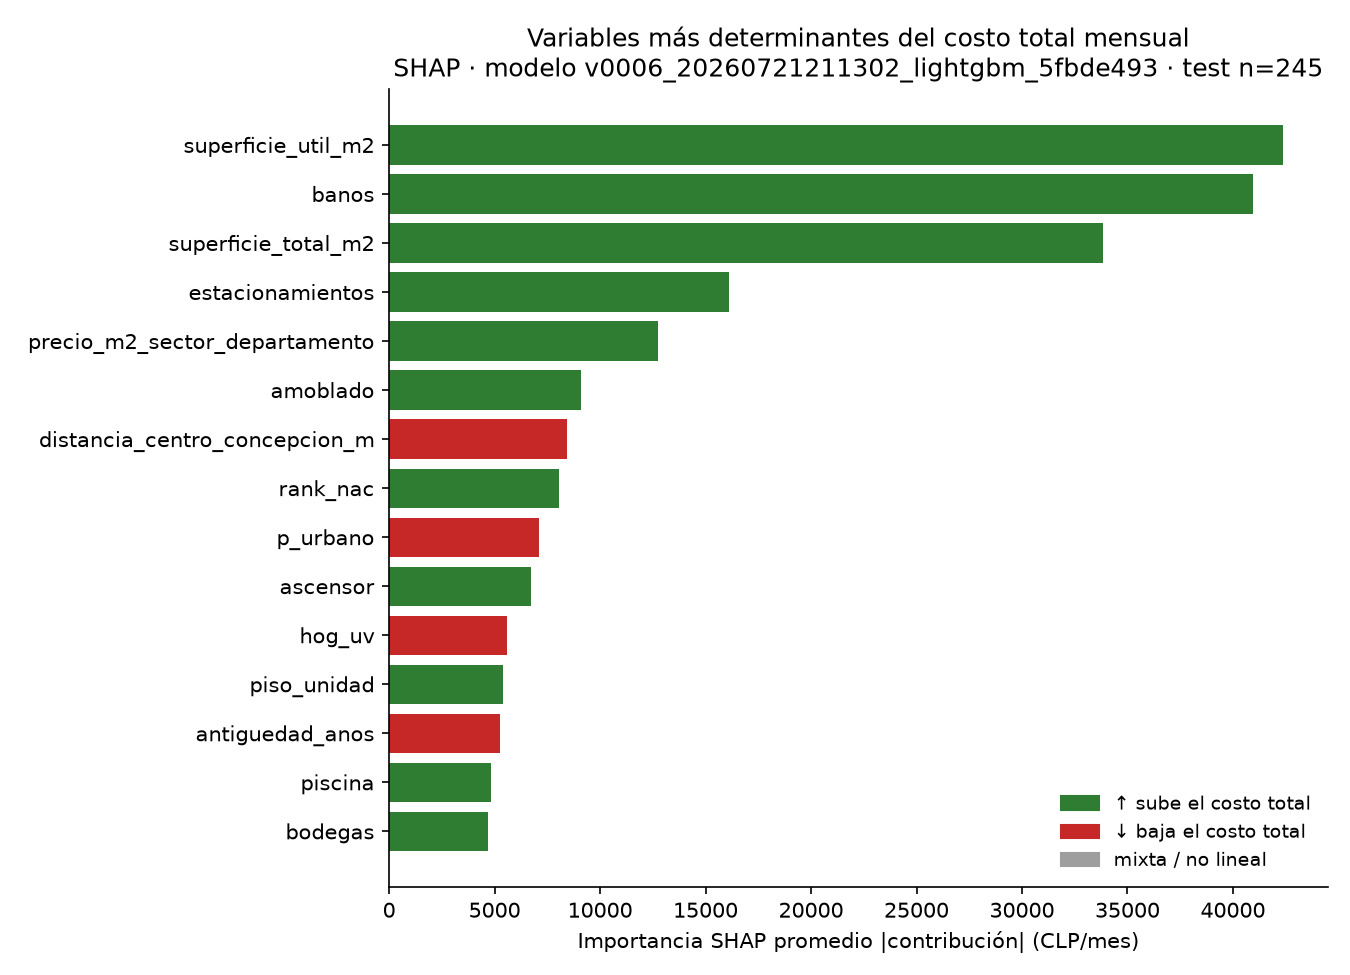
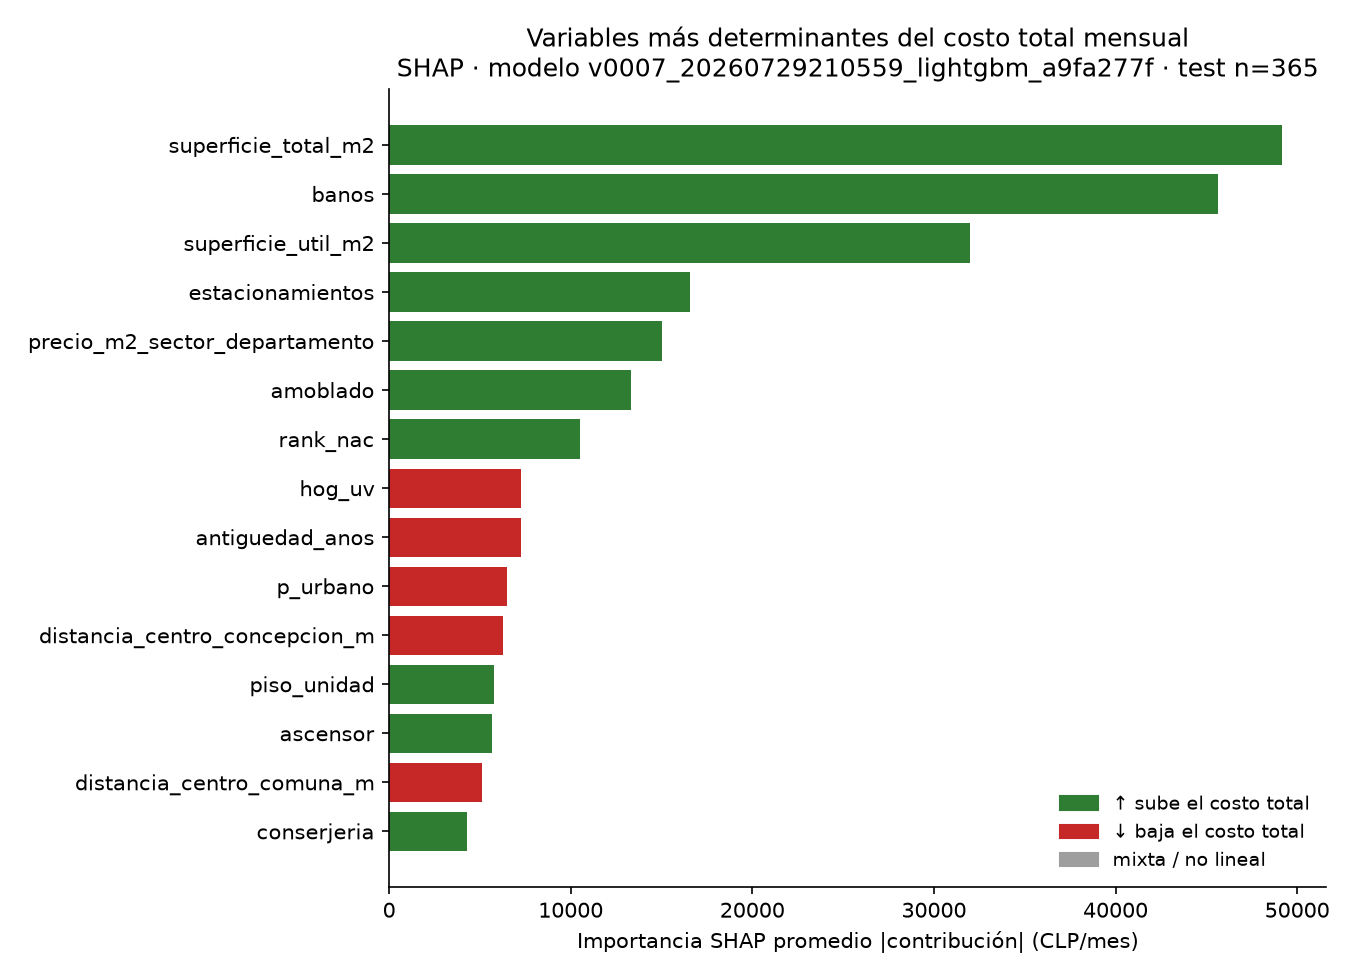
Corrección de la sección de "Cómo funciona" con los datos actualizados.

diff --git a/produccion/03_visualizacion/explicacion.py b/produccion/03_visualizacion/explicacion.py
@@ -22,22 +22,22 @@ def _img_data_uri(nombre_archivo: str) -> str:
 
 
 # Top 10 features por importancia SHAP (magnitud + dirección) del modelo vigente
-# (v0006_20260721211302_lightgbm_5fbde493), calculadas por
-# produccion/02_pruebas/analisis_shap.py sobre los 245 avisos de test — ver sección 4.1
+# (v0007_20260729210559_lightgbm_a9fa277f), calculadas por
+# produccion/02_pruebas/analisis_shap.py sobre los 365 avisos de test — ver sección 4.1
 # del README para la metodología y la tabla completa (29 features). Contenido estático
 # (no se lee en vivo), igual que el resto de las cifras de este archivo: hay que
 # actualizarlo a mano si se reentrena el modelo y cambia el ranking.
 _SHAP_TOP10 = [
-    ("Superficie útil", "18,1%", "sube"),
+    ("Superficie total", "18,9%", "sube"),
     ("Número de baños", "17,5%", "sube"),
-    ("Superficie total", "14,5%", "sube"),
-    ("Número de estacionamientos", "6,9%", "sube"),
-    ("Costo total/m² de comparables cercanos", "5,5%", "sube"),
-    ("Amoblado", "3,9%", "sube"),
-    ("Distancia al centro de Concepción", "3,6%", "baja"),
-    ("Vulnerabilidad del sector (ranking nacional)", "3,4%", "sube"),
-    ("Porcentaje urbano del sector", "3,0%", "baja"),
-    ("Ascensor", "2,9%", "sube"),
+    ("Superficie útil", "12,3%", "sube"),
+    ("Número de estacionamientos", "6,4%", "sube"),
+    ("Costo total/m² de comparables cercanos", "5,8%", "sube"),
+    ("Amoblado", "5,1%", "sube"),
+    ("Vulnerabilidad del sector (ranking nacional)", "4,0%", "sube"),
+    ("Hogares en el Registro Social de Hogares", "2,8%", "baja"),
+    ("Antigüedad del edificio", "2,8%", "baja"),
+    ("Porcentaje urbano del sector", "2,5%", "baja"),
 ]
 
 _SHAP_DIRECCION_ICONO = {"sube": ("↑", COLOR_OPORTUNIDAD), "baja": ("↓", COLOR_CARO)}
@@ -158,11 +158,11 @@ sobre lo esperado.
 
 ### Cantidad de datos usados
 
-El modelo vigente (`v0006_20260721211302_lightgbm_5fbde493`) se entrenó con **1.627 avisos**
-de departamentos en arriendo, divididos en:
+El modelo vigente (`v0007_20260729210559_lightgbm_a9fa277f`) se entrenó con **2.430 avisos**
+de departamentos en arriendo (activos, pausados y finalizados recientes), divididos en:
 
-- **1.382 avisos** para entrenar el modelo (ajuste + early stopping).
-- **245 avisos** que el modelo nunca vio durante el entrenamiento, usados solo para medir
+- **2.065 avisos** para entrenar el modelo (ajuste + early stopping).
+- **365 avisos** que el modelo nunca vio durante el entrenamiento, usados solo para medir
   qué tan bien predice (conjunto de test).
 
 Es un dataset acotado a una sola ciudad y a un momento puntual en el tiempo — no es un
@@ -197,7 +197,7 @@ hacia abajo), y la suma de todas esas contribuciones más el promedio general da
 final de ese aviso. Es una técnica exacta para modelos de árboles como este (no una
 aproximación), y es la misma que ya se usó para elegir estas 29 variables entre 41 candidatas.
 
-Promediando esas contribuciones (en valor absoluto) sobre los 245 avisos de test se obtiene qué
+Promediando esas contribuciones (en valor absoluto) sobre los 365 avisos de test se obtiene qué
 tan determinante es cada variable **en general** — no para un aviso puntual:
 
 """
@@ -207,12 +207,12 @@ tan determinante es cada variable **en general** — no para un aviso puntual:
 
 Las **características físicas** (superficie, baños, estacionamientos y el resto de las
 amenities) concentran en conjunto **~75%** de la importancia total, ubicación y mercado local
-**~16%**, y el contexto socioeconómico del sector **~9%**. Superficie útil y número de baños,
-por sí solas, ya explican cerca de un tercio de cada predicción — son, con diferencia, lo que
+**~16%**, y el contexto socioeconómico del sector **~9%**. Superficie total y número de baños,
+por sí solas, ya explican más de un tercio de cada predicción — son, con diferencia, lo que
 más mueve el costo total estimado.
 
 **Vista aviso por aviso**: el gráfico de arriba solo muestra el promedio. Este otro muestra la
-contribución real de cada uno de los 245 avisos de test, no el promedio:
+contribución real de cada uno de los 365 avisos de test, no el promedio:
 
 """
         + f'<img src="{_img_data_uri("shap_beeswarm.png")}" alt="Beeswarm de contribuciones SHAP por aviso" style="width:100%;max-width:720px;display:block;margin:6px auto;" />'
@@ -226,15 +226,15 @@ puntos y que no queden todos amontonados unos sobre otros.
 
 Lo que se ve acá que el gráfico de barras no muestra:
 
-- En baños, ascensor, amoblado, piscina, bodegas y estacionamientos, los puntos azules y rojos
-  quedan casi completamente separados en dos grupos — el efecto de estas variables es parejo en
-  casi todos los avisos, no solo "en promedio".
+- En baños, amoblado, ascensor y conserjería, los puntos azules y rojos quedan casi
+  completamente separados en dos grupos — el efecto de estas variables es parejo en casi todos
+  los avisos, no solo "en promedio".
 - En superficie útil y superficie total, la mayoría de los avisos están agrupados cerca del
   centro, pero un grupo chico de departamentos muy grandes tiene un impacto mucho mayor que el
   resto — el efecto del tamaño no es parejo: se dispara en los departamentos más grandes.
-- En las variables del sector (ranking de vulnerabilidad, porcentaje urbano) los colores están
-  más mezclados — el efecto existe pero es menos parejo entre avisos que el de las
-  características físicas del departamento.
+- En las variables del sector (ranking de vulnerabilidad, porcentaje urbano, hogares del RSH)
+  los colores están más mezclados — el efecto existe pero es menos parejo entre avisos que el
+  de las características físicas del departamento.
 
 </div>
 
@@ -242,17 +242,17 @@ Lo que se ve acá que el gráfico de barras no muestra:
 
 ### Qué tan preciso es (el error del modelo)
 
-Medido sobre los 245 avisos de test (que el modelo no usó para entrenar), comparando el costo
+Medido sobre los 365 avisos de test (que el modelo no usó para entrenar), comparando el costo
 total predicho contra el costo total real (arriendo + gastos comunes):
 
 | Métrica | Valor | Qué significa |
 |---|---|---|
-| Error promedio (MAE) | **≈ \\$61.500** | En promedio, la predicción se equivoca por unos \\$61.500 respecto al costo total real |
-| Error porcentual (MAPE) | **≈ 10,0%** | En promedio, la predicción se desvía ~10,0% del costo total real |
-| R² | **≈ 0,80** | El modelo explica ~80% de la variación de costo total entre avisos — queda ~20% sin explicar |
+| Error promedio (MAE) | **≈ \\$42.500** | En promedio, la predicción se equivoca por unos \\$42.500 respecto al costo total real |
+| Error porcentual (MAPE) | **≈ 6,7%** | En promedio, la predicción se desvía ~6,7% del costo total real |
+| R² | **≈ 0,88** | El modelo explica ~88% de la variación de costo total entre avisos — queda ~12% sin explicar |
 
 El error **no es parejo en todo el rango de precios**: en departamentos más caros (sobre
-~\\$740.000 de costo total) el error típico sube a más de \\$114.000, porque hay menos avisos en
+~\\$750.000 de costo total) el error típico sube a cerca de \\$79.000, porque hay menos avisos en
 ese rango para aprender de ellos y los precios son más variables. Por eso la calificación de
 "oportunidad" no compara contra un error único, sino contra el error típico de avisos de costo
 similar (ver estratos más abajo).
@@ -262,12 +262,12 @@ costo total sin ningún modelo:
 
 | Cómo se estima el costo total | Error promedio (MAE) |
 |---|---|
-| Usar siempre el costo total promedio del mercado, sin distinguir entre avisos | ≈ \\$141.900 |
-| Costo total/m² del sector × superficie del departamento, sin ajustar nada más | ≈ \\$93.200 |
-| **Este modelo** | **≈ \\$61.500** |
+| Usar siempre el costo total promedio del mercado, sin distinguir entre avisos | ≈ \\$150.800 |
+| Costo total/m² del sector × superficie del departamento, sin ajustar nada más | ≈ \\$86.500 |
+| **Este modelo** | **≈ \\$42.500** |
 
-El modelo reduce el error en un tercio frente a usar solo el costo total/m² del sector, y en
-más de la mitad frente a asumir un costo total promedio único para todo el mercado.
+El modelo reduce el error casi a la mitad frente a usar solo el costo total/m² del sector, y en
+más de dos tercios frente a asumir un costo total promedio único para todo el mercado.
 
 </div>
 
@@ -275,15 +275,15 @@ más de la mitad frente a asumir un costo total promedio único para todo el mer
 
 ### Los estratos (deciles de costo total)
 
-Para calibrar cuándo un costo total es "raro", los 245 avisos de test se agruparon en **10
+Para calibrar cuándo un costo total es "raro", los 365 avisos de test se agruparon en **10
 estratos según su costo total mensual** (deciles), y para cada estrato se calculó su propio
 error típico (mediana del error y MAD — desviación absoluta mediana, una versión del error
 típico menos sensible a valores extremos que la desviación estándar). Los bordes de costo
 total de cada estrato en el modelo vigente son:
 
-`< $417.000` · `$417.000–460.000` · `$460.000–495.200` · `$495.200–548.000` ·
-`$548.000–580.075` · `$580.075–630.000` · `$630.000–664.000` · `$664.000–730.000` ·
-`$730.000–796.060` · `> $796.060`
+`< $435.000` · `$435.000–469.400` · `$469.400–500.000` · `$500.000–550.000` ·
+`$550.000–581.563` · `$581.563–632.000` · `$632.000–680.000` · `$680.000–745.000` ·
+`$745.000–856.000` · `> $856.000`
 
 Cada aviso se compara solo contra el error típico de su propio estrato, no contra un
 promedio general del mercado.
@@ -342,7 +342,7 @@ ten en cuenta:
   arrendador, entre otras cosas que no están en los datos scrapeados.
 - Los datos vienen de avisos publicados — pueden tener errores de tipeo, precios o gastos
   comunes desactualizados, o información incompleta que el scraper no pudo capturar bien.
-- El error típico del modelo (~10,0%, más alto en tramos de costo poco frecuentes) significa
+- El error típico del modelo (~6,7%, más alto en tramos de costo poco frecuentes) significa
   que **puede fallar**, incluso en avisos marcados con confianza alta.
 - Revisa siempre la publicación original y otras variables no capturadas por el modelo antes
   de sacar conclusiones sobre un aviso puntual.
